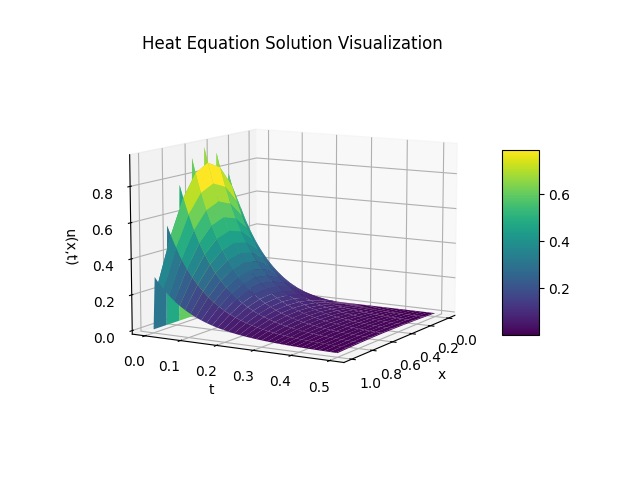
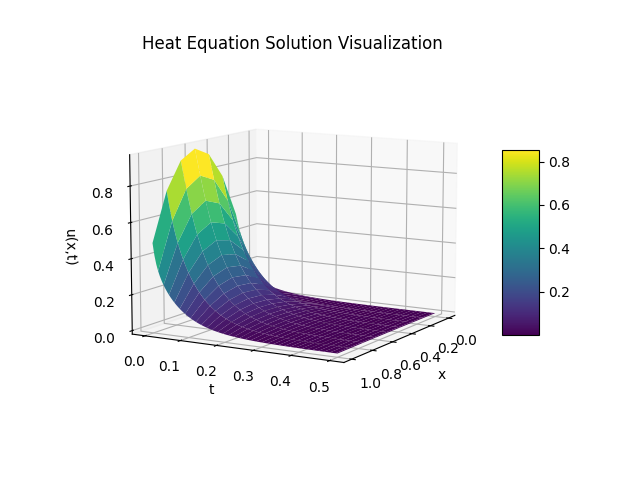
Improving memory usage

diff --git a/heat_equation_backward_difference.py b/heat_equation_backward_difference.py
@@ -24,46 +24,46 @@ def heat_equation_backward_difference(f: Callable[[float], float], l:float, T:fl
     lam: float = alpha * alpha * k / (h * h)
 
     # Solution array
-    W = np.zeros(m)
-    solution = np.zeros((m, N+1))
+    W = np.zeros(m-1)
+    solution = np.zeros((m-1, N+1))
 
     # ls
-    l_array = np.zeros(m)
-    u_array = np.zeros(m)
-    z_array = np.zeros(m)
+    l_array = np.zeros(m-1)
+    u_array = np.zeros(m-1)
+    z_array = np.zeros(m-1)
 
     # STEP 2
-    for i in range(1, m):
+    for i in range(m-1):
         W[i] = f(i * h)
 
     # STEP 3
-    l_array[1]= 1.0 + 2.0 * lam;
-    u_array[1]= -lam / l_array[1];
+    l_array[0]= 1.0 + 2.0 * lam;
+    u_array[0]= -lam / l_array[0];
 
     # STEP 4
-    for i in range(2, m-1):
+    for i in range(1, m-2):
         l_array[i] = 1.0 + 2.0 * lam + lam * u_array[i-1];
         u_array[i] = -lam / l_array[i];
 
     # STEP 5
-    l_array[m-1] = 1.0 + 2.0 * lam + lam * u_array[m-2]
+    l_array[m-2] = 1.0 + 2.0 * lam + lam * u_array[m-3]
 
     # STEP 6
-    for j in range(1, N+1):
+    for j in range(N+1):
         # STEP 7
         t: float = j * k;
-        z_array[1] = W[1] / l_array[1]
+        z_array[0] = W[0] / l_array[0]
 
         # STEP 8
-        for i in range(2, m):
+        for i in range(2, m-1):
             z_array[i] = (W[i] + lam * z_array[i-1]) / l_array[i]
         # print("z_array", z_array)
 
         # STEP 9
-        W[m-1] = z_array[m-1]
+        W[m-2] = z_array[m-2]
 
         # STEP 10
-        for i in range(m-2, 0, -1):
+        for i in range(m-3, -1, -1):
             W[i] = z_array[i] - u_array[i] * W[i+1]
 
         # STEP 11
@@ -80,9 +80,10 @@ def main():
     N: int = 100
     # The solution is m x N+1 matrix
     solution = heat_equation_backward_difference(f, l, T, alpha, m, N)
+    # print(solution)
     
     # Create x and t arrays for plotting
-    x = np.linspace(0, l, m)         # m points for the spatial domain
+    x = np.linspace(0, l, m-1)         # m points for the spatial domain
     t = np.linspace(0, T, N+1)         # N+1 time points
 
     # Create a meshgrid. Note: meshgrid returns arrays of shape (len(t), len(x))
